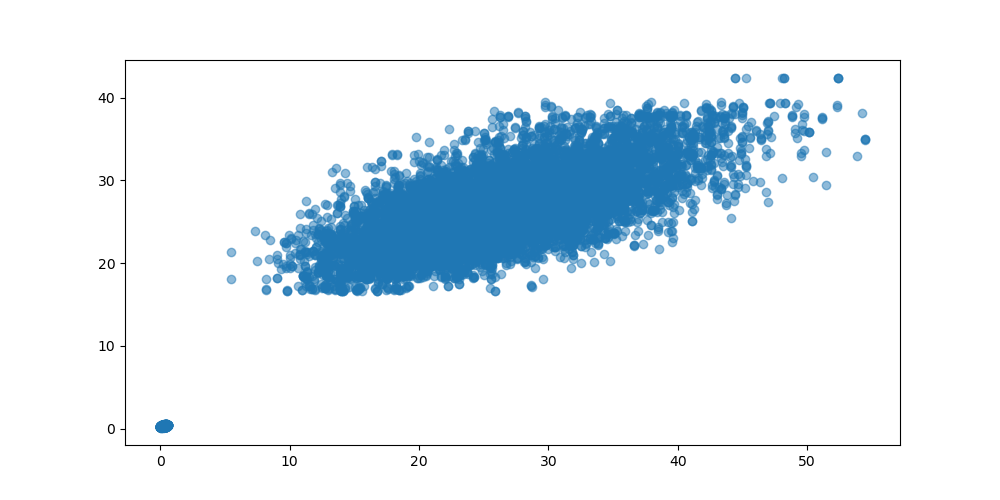
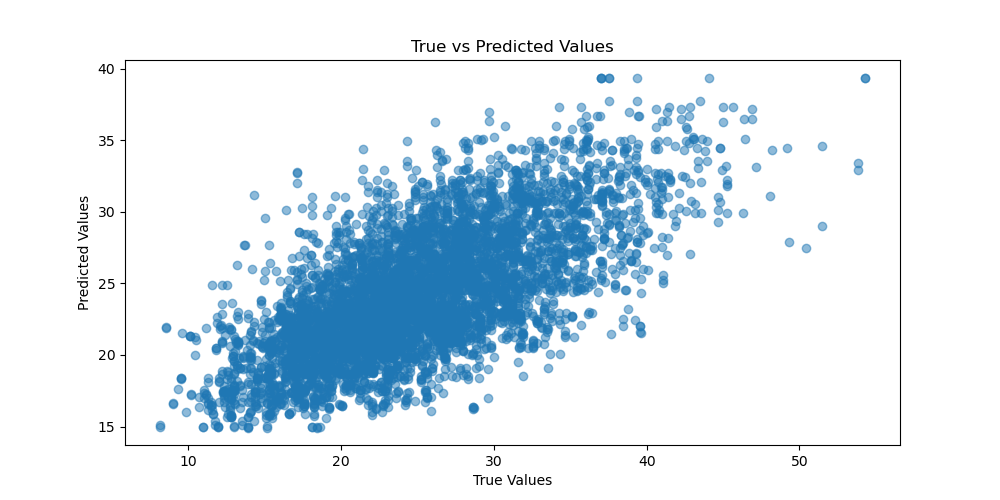
POSITIVE R2FGVBJHKLNMGHVJBKNHGFCHJ

diff --git a/postprocess.py b/postprocess.py
@@ -39,14 +39,6 @@ class Postprocessor:
             raise Exception("Incorrect arguments for Postprocessor.__init__(self, preprocessor, model=None)")
         return
 
-    def get_r2(self, Y, P):
-        """
-        Calculate the R² score for predictions P and true values Y.
-        """
-        ss_res = sum((Y - P) ** 2)  # Residual Sum of Squares
-        ss_tot = sum((Y - mean(Y)) ** 2)  # Total Sum of Squares
-        return 1 - ss_res / ss_tot
-
     def postprocess(self):
         """
         Postprocess the predicted data and calculate R² values for multiple outputs.
@@ -54,9 +46,21 @@ class Postprocessor:
         self.postprocessedFiles = {}
 
         tP = load_pkl(self.__predictedFiles['trainP'])
+        print(f"tP {shape(tP)}")
         vP = load_pkl(self.__predictedFiles['validP'])
+        print(f"vP {shape(vP)}")
         tY = load_pkl(self.__preprocessedFiles['trainY'])
+        print(f"tY {shape(tY)}")
         vY = load_pkl(self.__preprocessedFiles['validY'])
+        print(f"vY {shape(vY)}")
+
+        def get_r2(Y, P):
+            """
+            Calculate the R² score for predictions P and true values Y.
+            """
+            ss_res = sum((Y - P) ** 2)  # Residual Sum of Squares
+            ss_tot = sum((Y - mean(Y)) ** 2)  # Total Sum of Squares
+            return 1 - ss_res / ss_tot
 
         R2Train = []
         R2Valid = []
@@ -64,30 +68,31 @@ class Postprocessor:
         yPredict = []
 
         # Iterate over each output dimension
-        for i in range(shape(tP)[-1]):
+        for i in range(shape(tP)[2]):
             # Extract slices for the current output dimension
-            tYSlice = tY[..., i].flatten()
-            tPSlice = tP[..., i].flatten()
-            vYSlice = vY[..., i].flatten()
-            vPSlice = vP[..., i].flatten()
+            tYSlice = tY[:, :, i].flatten()
+            tPSlice = tP[:, :, i].flatten()
+            vYSlice = vY[:, :, i].flatten()
+            vPSlice = vP[:, :, i].flatten()
 
             # Append true and predicted values for plotting
-            yTrain.extend(tYSlice)
-            yPredict.extend(tPSlice)
+            yTrain.append(tYSlice)
+            yPredict.append(tPSlice)
 
             # Calculate R² for training and validation
-            R2Train.append(self.get_r2(tYSlice, tPSlice))
-            R2Valid.append(self.get_r2(vYSlice, vPSlice))
+            R2Train.append(get_r2(tYSlice, tPSlice))
+            R2Valid.append(get_r2(vYSlice, vPSlice))
 
             # Print R² values
             print(f"R² value for output {i} (train): {R2Train[-1]}")
             print(f"R² value for output {i} (valid): {R2Valid[-1]}")
 
-        # Scatter plot of true vs predicted values
-        plt.figure(figsize=(10, 5))
-        plt.scatter(yTrain, yPredict, alpha=0.5)
-        plt.xlabel("True Values")
-        plt.ylabel("Predicted Values")
-        plt.title("True vs Predicted Values")
-        plt.savefig('my_plot.png')
+            # Scatter plot of true vs predicted values
+            plt.figure(figsize=(10, 5))
+            plt.scatter(yTrain[-1], yPredict[-1], alpha=0.5)
+            plt.xlabel("True Values")
+            plt.ylabel("Predicted Values")
+            plt.title("True vs Predicted Values")
+            plt.savefig('my_plot.png')
+        
         return

diff --git a/opticoach.py b/opticoach.py
@@ -8,8 +8,9 @@ from postprocess import Postprocessor
 aggregator = Aggregator()
 # aggregator.aggregate()
 preprocessor = Preprocessor(aggregator, 1985, 2020, 15, 3)
-preprocessor.preprocess()
+# preprocessor.preprocess()
 model = OpticoachModel(preprocessor)
 model.build_and_train_directly()
+model.predict()
 postprocessor = Postprocessor(preprocessor, model)
 postprocessor.postprocess()
